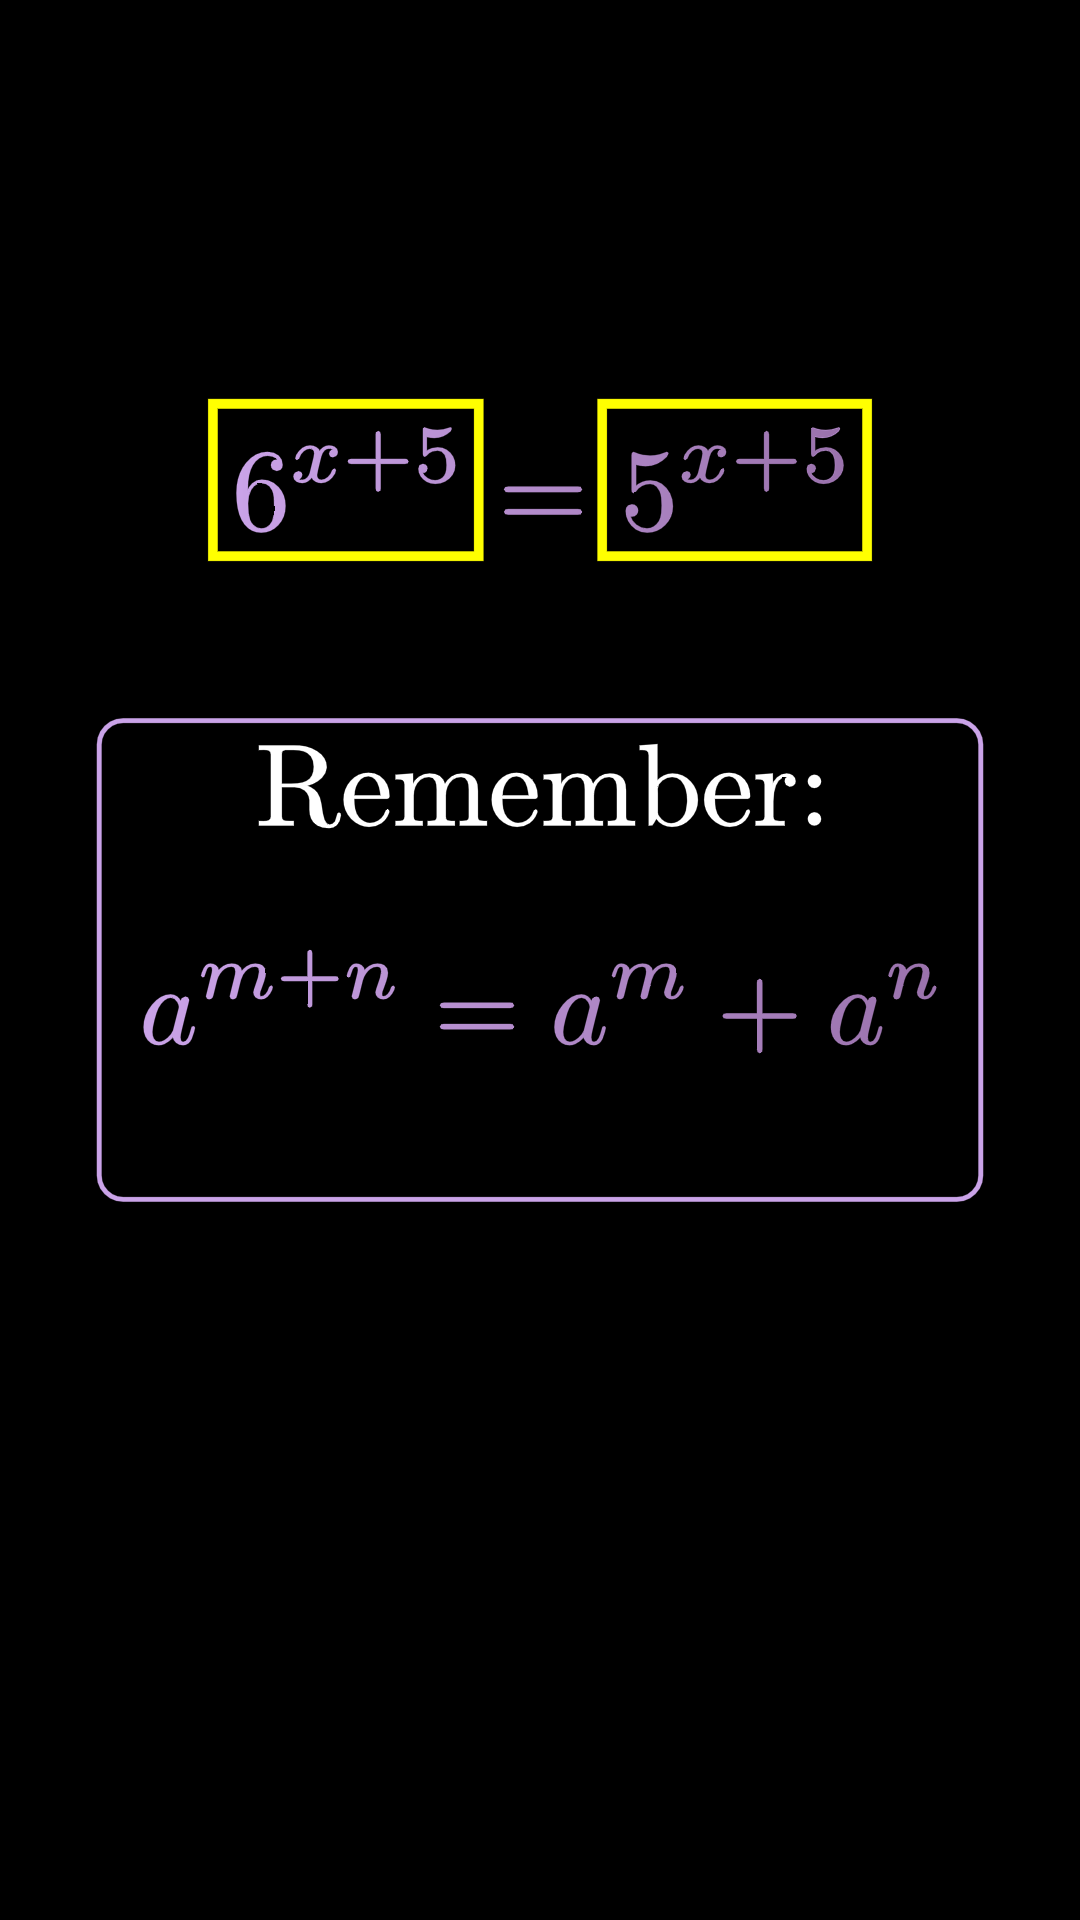
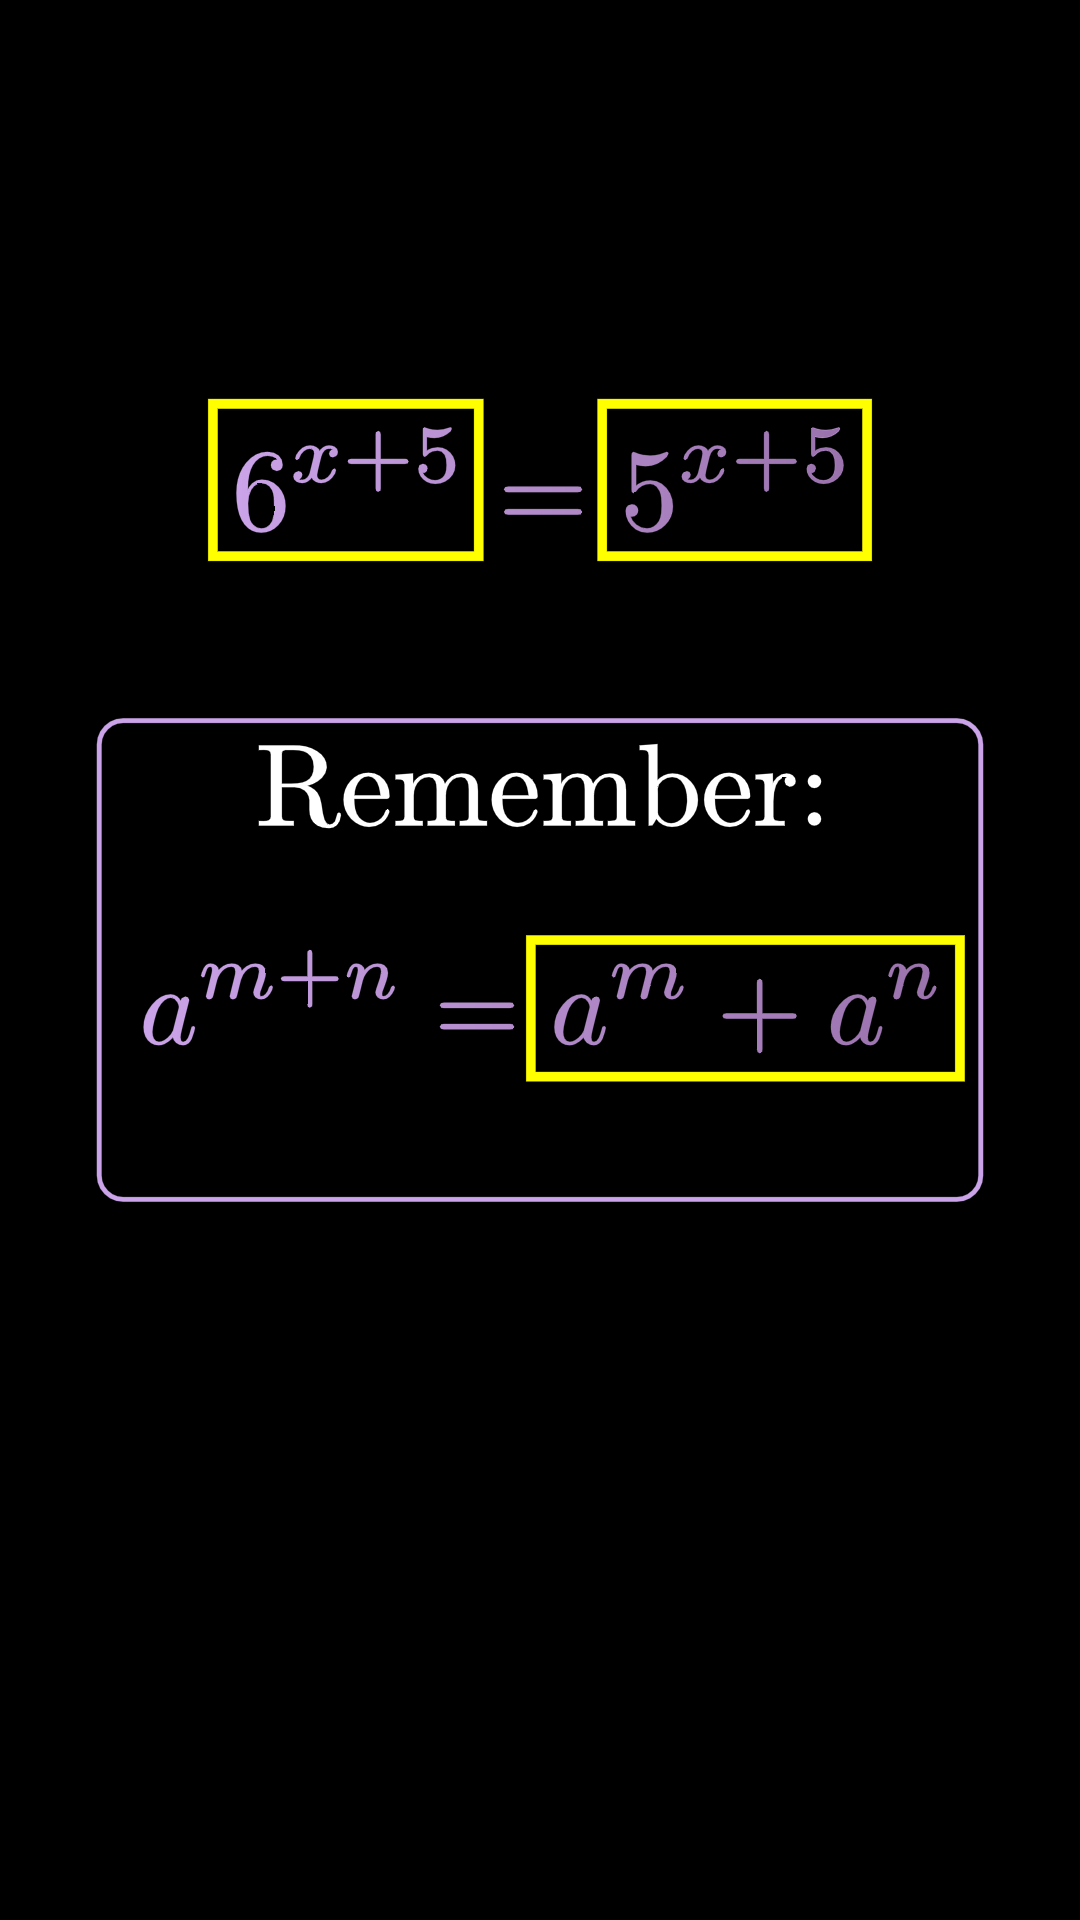
f

Changed region(s): [[0.4889, 0.4688, 0.9167, 0.5625]]

diff --git a/ind.py b/ind.py
@@ -43,7 +43,7 @@ class Identity(InteractiveScene):
             SurroundingRectangle(equ["5^{x + 5}"]),
             SurroundingRectangle(remb[1]["a^m + a^n"])
         )
-        self.add(idt[0], idt[1])
+        self.add(idt[0], idt[1], idt[2])
         """self.play(
             ShowCreation(idt[0]),
             ShowCreation(idt[1]),
